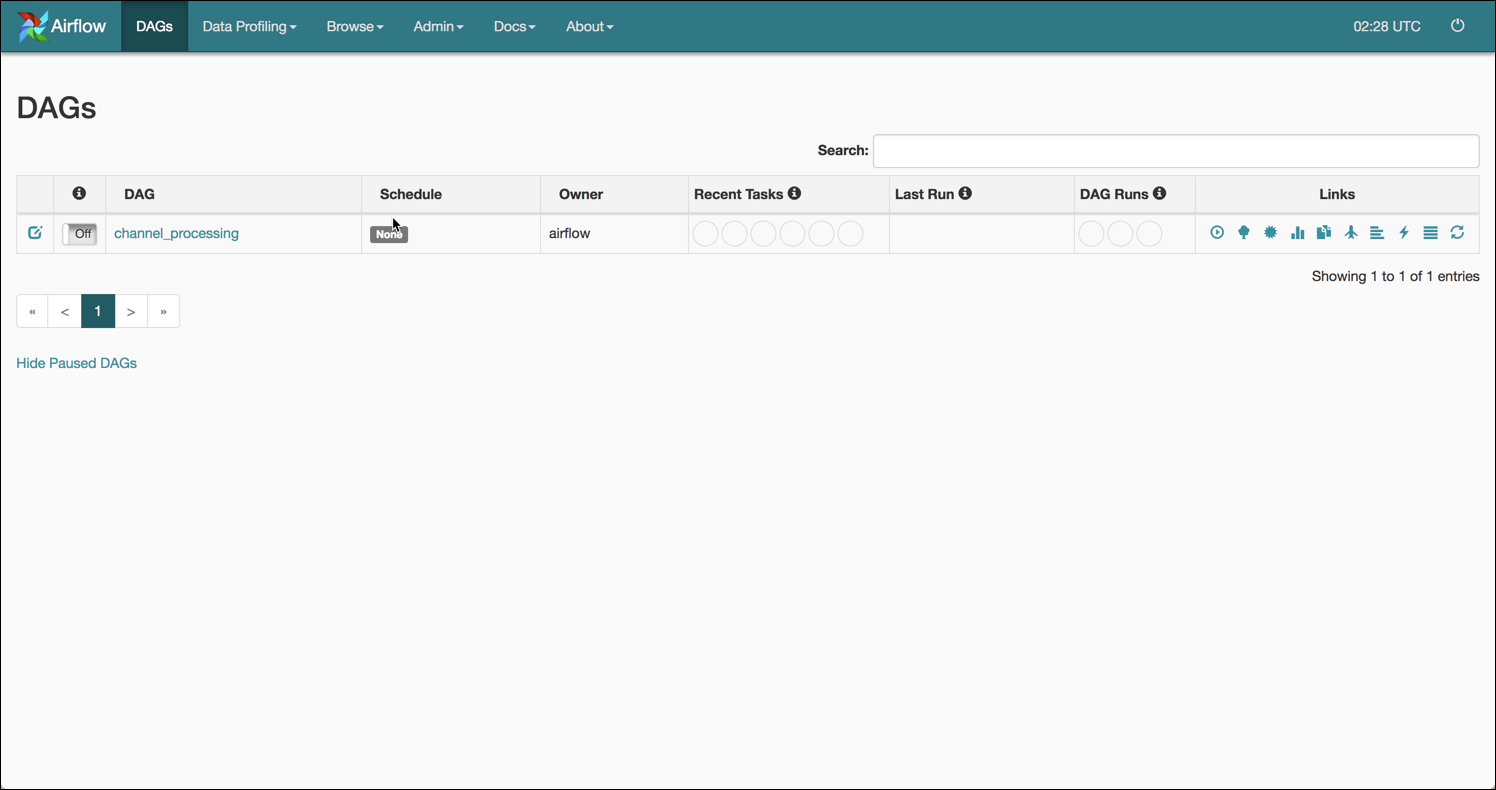
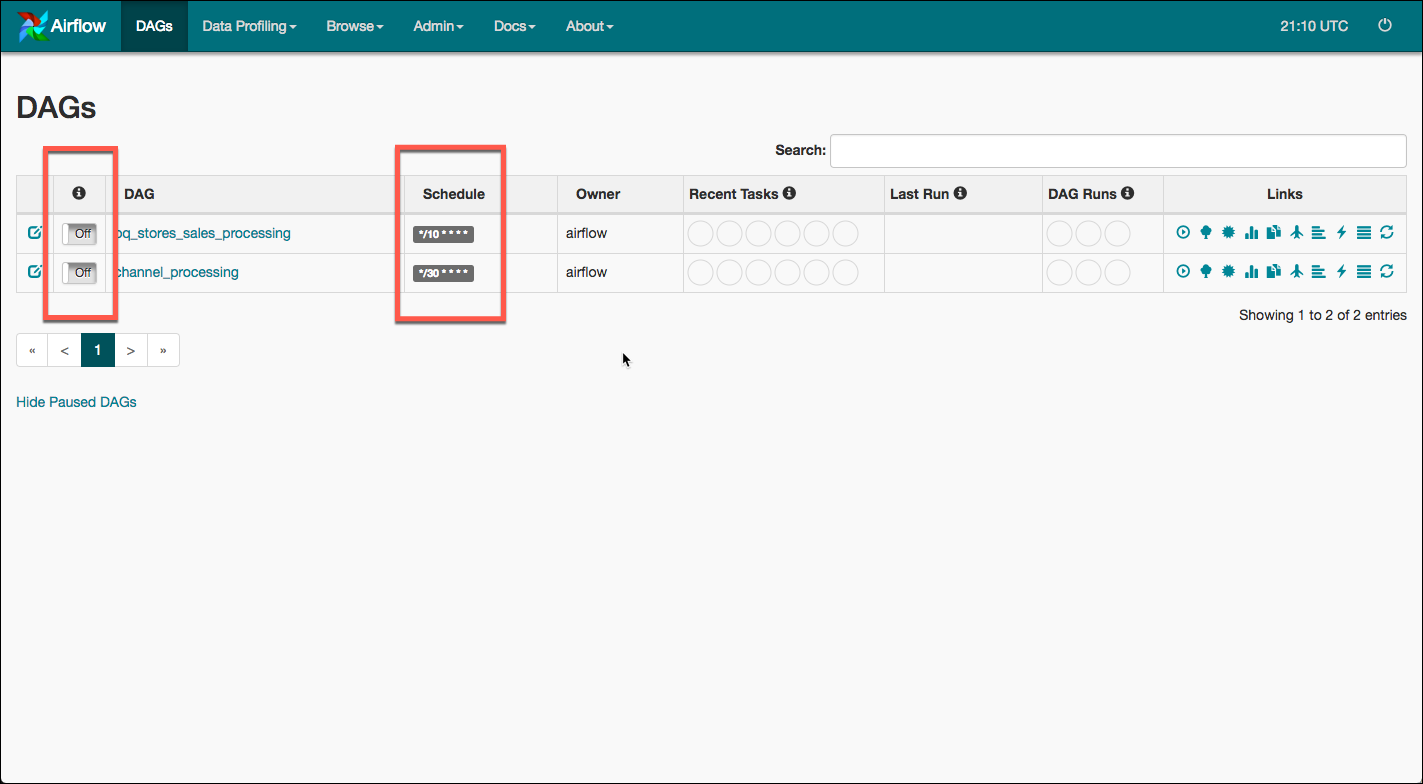
README content updates for Lab 3 and 4.

diff --git a/airflow/README.md b/airflow/README.md
@@ -45,9 +45,11 @@ This is the folder from which you will install and configure Terraform. Run the 
 * `unzip terraform_0.11.7_linux_amd64.zip -d .`
 * `./terraform -v`
 
->The output from the last command should display something similar to below:
+The output from the last command should display something similar to below:
+
 >
 >`Terraform v0.11.7`.
+>
 
 You have successfully installed Terraform.
 
@@ -210,10 +212,168 @@ Congratulations! You have installed and configured an Airflow instance on GCP us
 ___
 ### Lab 3: Using Airflow
 
-**Step 1:***
-Airflow GUI
+Expected Time: 20 mins
+
+As mentioned earlier, Airflow allows you to automate jobs to run on a schedule, or an event. The DAGS presented here are very basic and don't show the complexity possible for creating pipeline branches, configuring dependencies, etc. Suffice it to say that Airflow has become so popular Google Cloud Platform now offers it in beta as Cloud Composer.
+
+In this final lab you will run jobs that automate tasks that you manually ran in the BigQuery labs. For production deployments, running such tasks on a regular schedule is a must.
+
+**Step 1:**
+Introduction to the Airflow GUI
 
 ![Airflow Instance](assets/airflow-instance.png)
 
-By default Airflow pauses new DAGs that have been deployed.
+The landing page you see will be http://IP:8080/admin. You'll see that two DAGS have been deployed:
+
+* bq_stores_sales_processing
+* channel_processing
+
+By default Airflow pauses new DAGs that have been deployed so they don't start running prematurely. In the screen above you'll see 2 columns highlighted. The first column is a toggle that pauses/un-pauses a DAG's execution. To the right is the name of the DAG. The column after that contains the schedule for the DAG. The schedule format follows that of a Linux crontab very closely. The `bq_stores_sales_processing` DAG runs every 10 minutes and the `channel_processing` DAG runs every 30 minutes.
+
+Schedules for DAGS can use shortcuts such as @hourly, @daily, @weekly, etc.
+
+The Owner column shows the name of the user the DAG will run under. In most environments this will be "airflow", but if you communicate into other networks your owner name may represent a user account they've given you.
+
+The Recent Tasks, Last Run and DAG Runs columns provide status for each category. You can move your mouse over the `i` next to each column name for more information.
+
+The Links column lets you kick off DAGs immediately, short-cutting whatever schedule they are on. Additional icons let you view the DAG in different ways, view the execution times, the code for the DAG, etc. Again, you can mouseover any of the icons for more information.
+
+>Note that the current time is shown in the upper right-hand corner of your browser page. Airflow defaults to UTC time and prefers to run everything against UTC time. Logs can appear in your local time-zone, but for scheduling purposes, keep in mind that all scheduled times need to be adjusted for your local time zone.
+
+
+**Step 2:**
+Running the channel_processing DAG
+
+Let's start with the channel_processing DAG. Click the `Off` button to toggle it `On`. In 10 seconds or so, click the refresh icon for the DAG on the far right of the Links column.
+
+Airflow runs tasks for the previous scheduled interval. When you first un-pause the DAG, Airflow will notice that the DAG hasn't been run before and it will kick off fairly quickly to complete the run for the previous scheduled time.
+
+You will see this with the light green `1` that appears in the DAG Runs column. Periodically hit the refresh button for your DAG until you see it.
+
+![Airflow Step 2a](assets/channel-processing-unpause.png)
+
+Depending on the speed of your instance and quickness with the refresh button, you may miss the light green icon and see it go immediately to dark green. Light green indicates running and dark green indicates success.
+
+Since this DAG runs only every 30 minutes, let's look at the successful run.
+
+Click the green `1` in the Recent Tasks column.
+
+![Airflow Step2b](assets/channel-task-instances.png)
+
+This screen shows the state of the instance, the task id, the execution date, operator, start date, etc. Note that the Execution Date is earlier than the Start Date. Remember, Airflow when the previously scheduled interval complets.
+
+Click the Dag Id link next.
+
+![Airflow Step2c](assets/channel-graph-view.png)
+
+A few things to note about this page. Typically you would see a number of different tasks with lines drawn to represent dependencies. DAGs are a collection of tasks that can run in parallel, perform branching, etc. You may have a DAG that reads from multiple tables simultaneously in parallel but then merge together in a task that performs some data manipulation task before splitting off in a combination of sequential or parallel tasks.
+
+The middle left corner that is highlighted shows the Airflow operator(s) involved. Because this is a simple DAG, just the BashOperator is used. In more complex jobs, you may have several operators performing tasks.
+
+THe middle right portion highlighted shows the state of a particular task.
+
+*queued: the task is ready to run, but waiting for free resources from Airflow to kick off.
+*retry: the task failed. If a retry interval was configured it will attempt to retry that many times before reporting a failure.
+*skipped: the task was skipped, likely due to a condition in the DAG that was not meant and the task should not be run.
+*failed: the task failed after being unable to complete successfully after hitting the max retries.
+*running: the task is actively running.
+*success: the task finished successfully.
+
+When a DAG is running through its tasks, you can click the refresh button to see the current status of the DAG instance.
+
+Before moving onto the next step, let's take a quick look at a couple of options. The ones not covered you may explore on your own.
+
+Click the task id that is highlighted in dark green. From the pop-up, click the View Log button.
+
+![Airflow Step2d](assets/channel-log.png)
+
+As discussed before, note that the timestamps for the log entries are in CST, not UTC time. Airflow logging uses the time-zone of the server for logging purposes.
+
+You can scroll through the log to see what Airflow is doing to execute the job. Note that there are no errors in the log.
+
+Next, click the `Code` link at the top of the page.
+
+![Airflow Step2e](assets/channel-code.png)
+
+This lab won't try to explain all the various configuration of the DAG, but we will highlight a couple of things. First, Airflow is written in Python and DAG's are also Python code.
+
+The first part of the page configures imports for the various modules used. The bash command is represented by a string and becomes a parameter for the BashOperator at the bottom of the page.
+
+>Starting with line 27 you'll see code that retrieves a file list in the /staging/channel folder of the public `precocity-retail-workshop-2018-bucket`. If there were multiple files staged there, you would see a task id for each one. Airflow requires task id's to be unique in a DAG, so when it is necessary to create tasks dynmically, append some identifier to the end of the task id to ensure uniqueness.
+
+The bottom task represented by the `channel_df_task` runs a bash script that kicks off a DataFlow job. Airflow actually has a DataFlow operator, but it requires a .jar file not used as part of these Google templates, so the script was created instead.
+
+From here, you can see that a DataFlow script was executed. Now, navigate to your DataFlow page in your Google Cloud Console to see its status.
+
+![Airflow Step2f](assets/channel-df.png)
+
+Depending on how quickly you went through this step of the lab, you may see the DataFlow job running. Like task id's we chose to make the job id unique for purposes of the demo. In a production environment you might pre-preocess all the staging files and then run one DataFlow job against all of them.
+
+**Step 3:***
+Running the bq_store_sales_processing DAG
+
+In this step, you're going to run the BigQuery store sales processing DAG. This DAG runs every 10 minutes and has been implemented using both the BashOperator and a BigQueryOperator. In the next step you will configure Airflow and the DAG to use the BigQueryOperator.
+
+For now, un-pause the `bq_store_sales_processing` DAG. From the Airflow page, just click the DAGS menu item. After you un-pause the DAG, hit the refresh button quickly. If possible, click the light green icon and the `bq_stores_sales_processing` Dag Id to see the status of the task as `running`.
+
+![Airflow Step3a](assets/bq-graph.png)
+
+Click the Refresh icon until the task has successfully run. Then, select the task and click the View Log button again.
+
+![Airflow Step3b](assets/bq-init-log.png)
+
+The log contents show the `bq query` command running, with a job id and at the bottom, some BigQuery initialization that occurs since it's been run on this instance for the first time.
+
+Navigate to the BigQuery page of your Google Cloud Console to verify.
+
+![Airflow Step3c](assets/bq-query-history.png)
+
+>Click the Show queries for all users from the Query History page
+
+The screenshot above shows 2 instances have already run during the creation of this lab. The first kicked off immediately after un-pausing the DAG, the second once the next 10 minute interval was reached.
+
+Remember the airflow service account that was created earlier as part of the Terraform configuration? This same service account is used by Airflow to communicate with BigQuery.
+
+**Step 4:**
+Modifying the bq_store_sales_processing DAG to use the BigQueryOperator
+
+In this last part of the lab, you're going to finish configuring a Google Cloud Platform connection and modify the existing DAG to use the BigQueryOperator.
+
+Before getting started, click the `Code` menu item from the Airflow logs page and scroll down to the bottom.
+
+![Airflow Step4a](assets/bq-code.png)
+
+Lines 23-25 currently run the BashOperator task that you've seen in action. Lines 27-35 perform the same functionality, but using the BigQueryOperator. That's actually not totally accurate, the BigQueryOperator has additional functionality to write out the results to a destination dataset table, plus a number of other things not covered in this lab.
+
+Before you edit this DAG, first finish configuring the Google Cloud Platform connection.
+
+Click the `Admin | Connections` menu item.
+
+![Airflow Step4b](assets/airflow-connections.png)
+
+Click the pencil/Edit icon on the `google_cloud_default` connection.
+
+Fill in the following data in the fields below:
+
+*Project Id: This should be your Google Cloud Platform Project Id. It will be the same as your $GOOGLE_CLOUD_PROJECT environment variable.
+*Keyfile Path: /etc/airflow/gce-airflow-key.json
+*Scopes: https://www.googleapis.com/auth/cloud-platform
+
+When complete, your screen should look similar to this:
+
+![Airflow Step4c](assets/bq-gcp-conn.png)
+
+Click the Save button at the bottom.
+
+Now, it's time to edit the DAG. Before making any changes to the code, go to the DAGs page and pause the `bq-stores-sales-processing` DAG. We don't want it running while editing it.
+
+From your Google Cloud Console, navigate to the Compute Engine | VM instances page and click the `SSH` link on the "airflow" instance. When the SSH window appears, type the following commands:
+
+```
+sudo su airflow
+cd /etc/airflow/dags
+vi store_sales.py
+```
+
+
 
